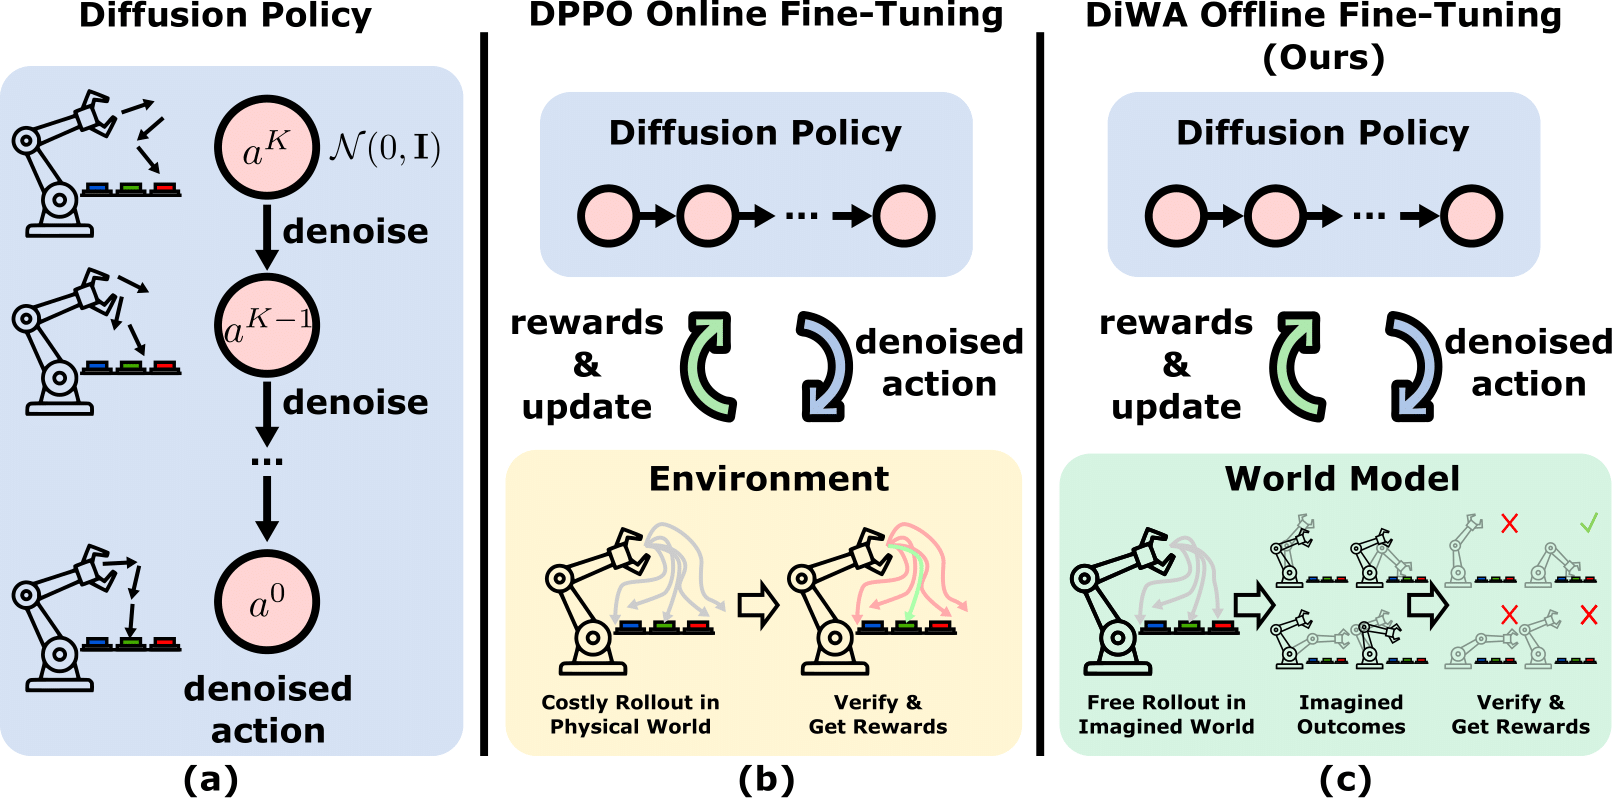
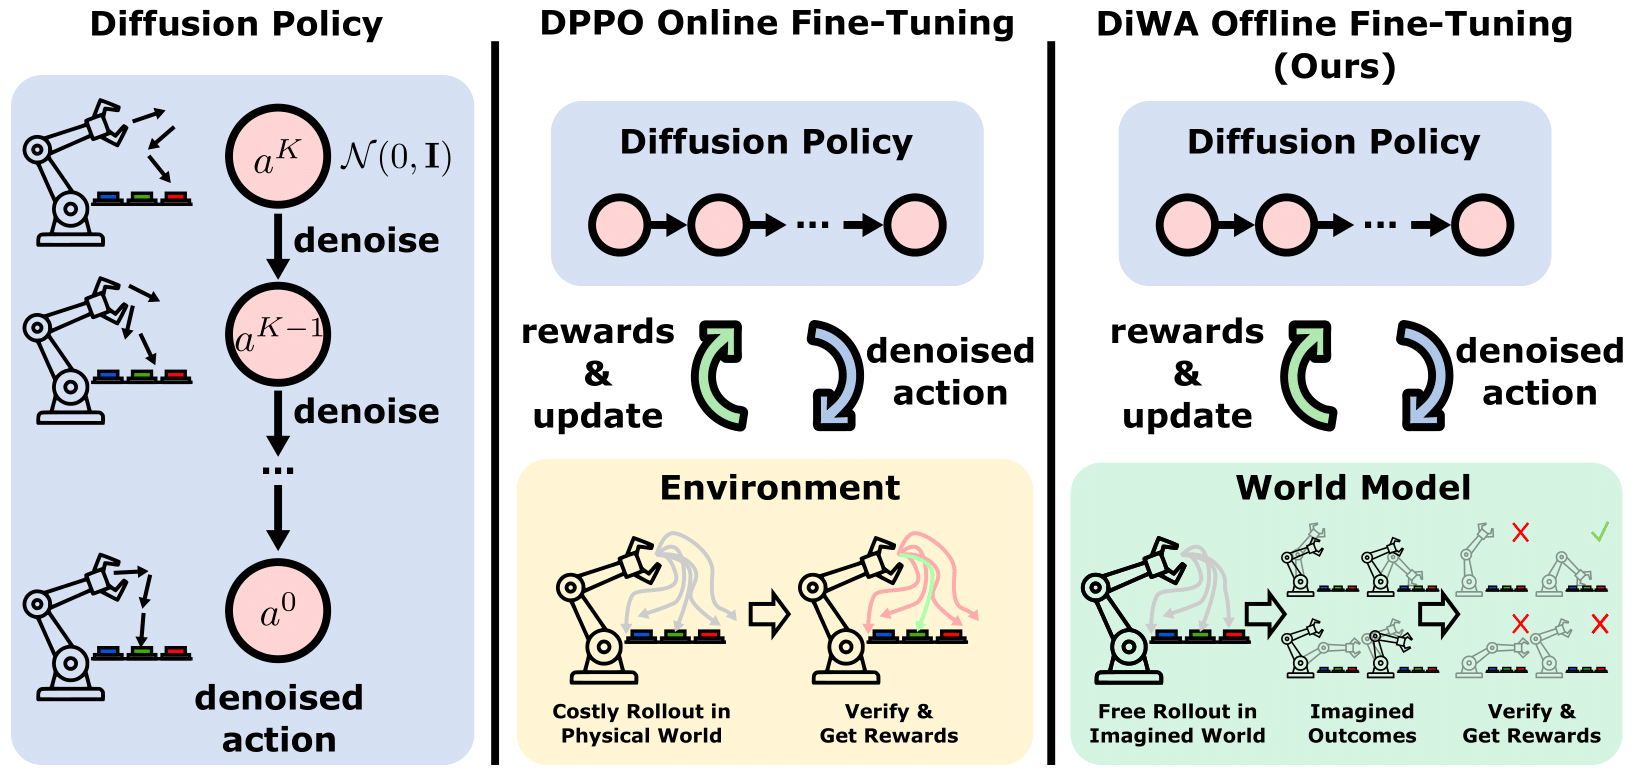
added wm test

diff --git a/scripts/tests/visionwm.py b/scripts/tests/visionwm.py
@@ -1,0 +1,155 @@
+import os
+
+import hydra
+import numpy as np
+from PIL import Image
+import torch
+from tqdm import tqdm
+
+from diwa.env.wrapper.calvin_image import CALVINImageWrapper
+from diwa.wm.wrapper.visionwm_cls import VisionWMWrapper
+
+""" This script visually tests the quality of a given world model, rendering the results as GIFs.
+For each skill, it randomly samples an episode and performs the following:
+1. It renders the true observations from the environment.
+2. It decodes the world model latent representations to RGB images.
+3. It performs an imagination rollout with true actions and decodes the imagined latents to RGB images.
+"""
+
+
+@hydra.main(config_path=f"{os.environ['DIWA_ROOT_DIR']}/config/env/", config_name="calvin")
+def main(cfg):
+    wm_path = f"{os.environ['DIWA_LOG_DIR']}/wm/ckpts/vision.ckpt"
+    stats_path = f"{os.environ['DIWA_DATA_DIR']}/statistics_minmax.yaml"
+    device = "cuda:0"
+    skills = [
+        "open_drawer",
+        "close_drawer",
+        "move_slider_left",
+        "move_slider_right",
+        "turn_on_lightbulb",
+        "turn_off_lightbulb",
+        "turn_on_led",
+        "turn_off_led",
+    ]
+    comment = "one_step"
+
+    outdir = f"{os.environ['DIWA_ROOT_DIR']}/scripts/tests/gifs/temp/"
+    os.makedirs(outdir, exist_ok=True)
+
+    env = CALVINImageWrapper(
+        cfg,
+        skill_name="open_drawer",
+        normalization_path=None,
+        max_episode_steps=128,
+        load_scene_from_dataset=None,
+        device="cpu",
+    )
+    wmw = VisionWMWrapper(ckpt_path=wm_path, device=device, stats_path=stats_path)
+    for skill_name in tqdm(skills, desc="Skills"):
+        env.skill_name = skill_name
+
+        # Load data
+        data_path_feat = f"{os.environ['DIWA_DATA_DIR']}/expert/calvin-feat-50/{skill_name}/train.npz"
+        data_path = f"{os.environ['DIWA_DATA_DIR']}/expert/calvin-state-raw-50/{skill_name}/train.npz"
+        data_feat = np.load(data_path_feat, allow_pickle=True)
+        data = np.load(data_path, allow_pickle=True)
+
+        traj_lengths = data["traj_lengths"]
+
+        # Get an episode based on the trajectory lengths
+        episode_idx = np.random.randint(len(traj_lengths))
+        start_idx = int(np.sum(traj_lengths[:episode_idx]))
+        end_idx = int(start_idx + traj_lengths[episode_idx])
+
+        obs = data["states"][start_idx:end_idx]
+        actions = data["actions"][start_idx:end_idx]
+        obs_feat = data_feat["states"][start_idx:end_idx]
+
+        # 1. TRUE EPISODE
+        # Render TRUE observation episodes
+        robot_obs, scene_obs = np.split(obs[0], [18])
+        env.reset(robot_obs, scene_obs)
+        render = env.render()
+        true_frames = [Image.fromarray(render.astype(np.uint8))]
+        for i in range(len(obs)):
+            env.step(actions[i])
+            render = env.render()
+            true_frames.append(Image.fromarray(render.astype(np.uint8)))
+
+        # Create GIF of TRUE episode
+        true_frames[0].save(
+            f"{outdir}/{skill_name}_{comment}_true.gif",
+            save_all=True,
+            append_images=true_frames[1:],
+            duration=30,
+        )
+
+        # 2. DECODED EPISODE
+        # Run through features and decode
+        robot_obs, scene_obs = np.split(obs[0], [18])
+        env.reset(robot_obs, scene_obs)
+        render = env.render()
+        dcd_frames = []
+        dcd_frames_gripper = []
+        for i in range(len(obs_feat)):
+            latent = torch.from_numpy(obs_feat[i]).to(device).unsqueeze(0).float()
+            rgb_s, rgb_g = wmw.decode_latent(latent)
+            dcd_frames.append(Image.fromarray(rgb_s.squeeze().cpu().numpy().astype(np.uint8)))
+            dcd_frames_gripper.append(Image.fromarray(rgb_g.squeeze().cpu().numpy().astype(np.uint8)))
+
+        # Create GIF of decoded episode
+        dcd_frames[0].save(
+            f"{outdir}/{skill_name}_{comment}_decoded.gif",
+            save_all=True,
+            append_images=dcd_frames[1:],
+            duration=30,
+        )
+
+        dcd_frames_gripper[0].save(
+            f"{outdir}/{skill_name}_{comment}_g_decoded.gif",
+            save_all=True,
+            append_images=dcd_frames_gripper[1:],
+            duration=30,
+        )
+
+        # 3. IMAGINED EPISODE
+        # Get zero wm features
+        wm_features = torch.from_numpy(obs_feat[0]).to(device).unsqueeze(0).float()
+
+        # Run through the episode
+        robot_obs, scene_obs = np.split(obs[0], [18])
+        env.reset(robot_obs, scene_obs)
+        render = env.render()
+        imagined_frames = []
+        imagined_frames_gripper = []
+        for i in range(len(obs_feat)):
+            pred_next_latent = wmw.wm_step(
+                wm_features,
+                torch.from_numpy(actions[i]).to(device).unsqueeze(0).float(),
+            )
+            rgb_s, rgb_g = wmw.decode_latent(pred_next_latent)
+            imagined_frames.append(Image.fromarray(rgb_s.squeeze().cpu().numpy().astype(np.uint8)))
+            imagined_frames_gripper.append(Image.fromarray(rgb_g.squeeze().cpu().numpy().astype(np.uint8)))
+            wm_features = pred_next_latent
+
+        # Create GIF of imagined episode
+        imagined_frames[0].save(
+            f"{outdir}/{skill_name}_{comment}_imagined.gif",
+            save_all=True,
+            append_images=imagined_frames[1:],
+            duration=30,
+        )
+
+        imagined_frames_gripper[0].save(
+            f"{outdir}/{skill_name}_{comment}_g_imagined.gif",
+            save_all=True,
+            append_images=imagined_frames_gripper[1:],
+            duration=30,
+        )
+
+    print("Saved gifs at ", outdir)
+
+
+if __name__ == "__main__":
+    main()

diff --git a/diwa/wm/wrapper/visionwm_cls.py b/diwa/wm/wrapper/visionwm_cls.py
@@ -1,3 +1,5 @@
+from pathlib import Path
+
 import torch
 
 from diwa.model.rewcls.contrastive import ContrastiveModel as RewardClassifier
@@ -19,9 +21,16 @@ class VisionWMWrapper(BaseWMWrapper, VisionWMObsEncoder):
         VisionWMObsEncoder.__init__(self, ckpt_path, device, stats_path)
         BaseWMWrapper.__init__(self, temperature, skill, device)
         self.set_wm(self.wm)
-        self.rewcls = RewardClassifier(input_dim=rew_cls_input_dim)
-        self.rewcls.load_state_dict(torch.load(rew_cls_path))
-        self.rewcls.to(device)
+
+        if rew_cls_path == "":
+            self.rewcls = None
+            print("WARNING: Using VisionWMWrapper without a reward classifier.\n")
+        elif Path(rew_cls_path).exists():
+            self.rewcls = RewardClassifier(input_dim=rew_cls_input_dim)
+            self.rewcls.load_state_dict(torch.load(rew_cls_path))
+            self.rewcls.to(device)
+        else:
+            raise FileNotFoundError(f"Reward classifier path {rew_cls_path} does not exist.")
 
     def decode_latent(self, latent):
         dcd_img_s, dcd_img_g = self.wm.decoder(latent)

diff --git a/README.md b/README.md
@@ -73,10 +73,12 @@ python scripts/train_wm.py trainer.devices=[<GPU-ID>]
 ```bash
 python scripts/featurizer.py device=<GPU-ID>
 ```
-#### 1.3 (Optional) World Model Tests
+#### 1.3 (Optional) Qualitative Test
+Optionally, one can visually assess the quality of the learned world model with our test script.
 ```bash
-(TODO)
+python scripts/tests/visionwm.py
 ```
+
 ### 2. Diffusion Policy Training
 
 **Note**: Before pre-training, please extract the featurized expert data with A.2 [here](dataset/README.md#a2-extract-expert-data-for-diffusion-policy-training) or you can download [here](https://diwa.cs.uni-freiburg.de/download/data/expert.zip).
